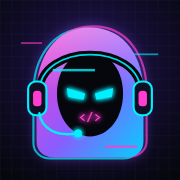
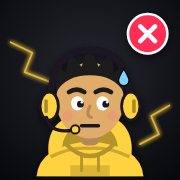
Add files via upload

diff --git a/style.css b/style.css
@@ -16,7 +16,9 @@
   --head: 'Chakra Petch', 'Rajdhani', system-ui, sans-serif;
   --body: 'Rajdhani', system-ui, -apple-system, sans-serif;
   --mono: 'JetBrains Mono', ui-monospace, Menlo, Consolas, monospace;
-  --hot: linear-gradient(135deg, #ff3dce 0%, #8a5cff 55%, #00d2ff 100%);
+  /* the gradient is only for the main buttons; everything else uses the solid colour */
+  --hot-grad: linear-gradient(135deg, #ff3dce 0%, #8a5cff 55%, #00d2ff 100%);
+  --hot: #8a5cff;
   --safe-b: env(safe-area-inset-bottom, 0px);
   --safe-t: env(safe-area-inset-top, 0px);
 }
@@ -516,11 +518,11 @@ body::before { content: ''; position: fixed; left: 0; right: 0; top: 0; height: 
 
 /* =================== v0.5 additions =================== */
 /* PLACE THEMES — the whole app changes mood with the place */
-body[data-place="dorm"] { --pink: #ff7ab6; --purple: #ff8a3d; --cyan: #ffd23f; --hot: linear-gradient(135deg, #ff5f6d 0%, #ff8a3d 55%, #ffd23f 100%);
+body[data-place="dorm"] { --pink: #ff7ab6; --purple: #ff8a3d; --cyan: #ffd23f; --hot: #ff8a3d; --hot-grad: linear-gradient(135deg, #ff5f6d 0%, #ff8a3d 55%, #ffd23f 100%);
   background: radial-gradient(1200px 600px at 10% -10%, rgba(255,138,61,.28), transparent 60%), radial-gradient(900px 500px at 110% 20%, rgba(255,210,63,.16), transparent 60%), radial-gradient(800px 600px at 50% 120%, rgba(255,95,109,.2), transparent 60%), #0d0806; }
-body[data-place="university"] { --pink: #5aa9ff; --purple: #3d5afe; --cyan: #7ee0ff; --hot: linear-gradient(135deg, #3d5afe 0%, #2f80ed 55%, #7ee0ff 100%);
+body[data-place="university"] { --pink: #5aa9ff; --purple: #3d5afe; --cyan: #7ee0ff; --hot: #3d5afe; --hot-grad: linear-gradient(135deg, #3d5afe 0%, #2f80ed 55%, #7ee0ff 100%);
   background: radial-gradient(1200px 600px at 10% -10%, rgba(61,90,254,.3), transparent 60%), radial-gradient(900px 500px at 110% 20%, rgba(126,224,255,.16), transparent 60%), radial-gradient(800px 600px at 50% 120%, rgba(47,128,237,.2), transparent 60%), #050814; }
-body[data-place="outside"] { --pink: #7dff4d; --purple: #1fb36b; --cyan: #b7ffde; --hot: linear-gradient(135deg, #11998e 0%, #38ef7d 100%);
+body[data-place="outside"] { --pink: #7dff4d; --purple: #1fb36b; --cyan: #b7ffde; --hot: #1fb36b; --hot-grad: linear-gradient(135deg, #11998e 0%, #38ef7d 100%);
   background: radial-gradient(1200px 600px at 10% -10%, rgba(17,153,142,.3), transparent 60%), radial-gradient(900px 500px at 110% 20%, rgba(56,239,125,.14), transparent 60%), radial-gradient(800px 600px at 50% 120%, rgba(10,60,40,.5), transparent 60%), #030a07; }
 body[data-place="outside"] .bg-grid { background-image: radial-gradient(rgba(255,255,255,.5) 1px, transparent 1.5px); background-size: 46px 46px; opacity: .25; }
 body[data-place="dorm"] .bg-grid { opacity: .15; }
@@ -1079,3 +1081,97 @@ body.quake #app { animation: quake .5s; }
 .judge { text-align: center; }
 .judge small { font: 700 12px var(--mono); letter-spacing: 2px; color: var(--dim); }
 .judge-ch { font: 800 22px var(--head); margin: 8px 0 12px; color: var(--yellow); line-height: 1.25; }
+/* ================= TrustIssues.exe logo ================= */
+.ti-logo { position: relative; display: inline-block; text-align: center; font-family: var(--head); font-weight: 700; font-size: clamp(30px, 10.5vw, 52px); line-height: 1.1; white-space: nowrap; padding-bottom: 14px; --imp: .62s; }
+.ti-name { display: inline-block; color: var(--text); text-shadow: 0 0 18px rgba(255,255,255,.15); animation: ti-in .45s ease-out .05s both; }
+.ti-exe { position: relative; display: inline-block; color: var(--yellow); text-shadow: 0 0 16px rgba(255,210,63,.6), 2px 2px 0 #ff2d55; animation: ti-slam .34s cubic-bezier(.7, 0, 1, .6) calc(var(--imp) - .14s) both; }
+/* the crack lines spread from where .exe lands */
+.ti-cracks { position: absolute; left: 50%; top: 92%; width: 190px; height: 76px; transform: translate(-50%, -50%); overflow: visible; pointer-events: none; }
+.ti-cracks path { fill: none; stroke: #ffe8a3; stroke-width: 2.2; stroke-linecap: round; stroke-linejoin: round; filter: drop-shadow(0 0 4px #ff9d00); stroke-dasharray: 220; stroke-dashoffset: 220; animation: ti-crack .4s ease-out calc(var(--imp) + .02s) forwards; }
+.ti-flash { position: absolute; left: 50%; top: 85%; width: 40px; height: 40px; margin: -20px 0 0 -20px; border-radius: 50%; background: radial-gradient(circle, #fff, rgba(255,210,63,.7) 40%, transparent 70%); opacity: 0; pointer-events: none; animation: ti-flash .5s ease-out var(--imp) both; }
+.ti-rock { position: absolute; left: 50%; top: 85%; width: 7px; height: 7px; background: #8a7a6a; border: 1px solid #3a2f25; opacity: 0; pointer-events: none; animation: ti-rock .75s cubic-bezier(.2, .8, .4, 1) var(--imp) both; }
+.ti-rock:nth-child(odd) { width: 5px; height: 9px; background: var(--yellow); border-color: #a8621f; }
+/* the "ground" the .exe hits */
+.ti-ground { position: absolute; left: -6%; right: -6%; bottom: 4px; height: 3px; border-radius: 2px; background: linear-gradient(90deg, transparent, rgba(255,255,255,.35) 20%, rgba(255,255,255,.35) 80%, transparent); animation: ti-ground .5s ease-out var(--imp) both; }
+.ti-tag { display: block; position: absolute; left: 0; right: 0; top: 100%; margin-top: 26px; font: 600 12px var(--mono); letter-spacing: 2px; color: var(--dim); white-space: nowrap; animation: ti-in .4s ease-out calc(var(--imp) + .45s) both; }
+@keyframes ti-in { from { opacity: 0; transform: translateY(8px); filter: blur(4px); } }
+@keyframes ti-slam {
+  0% { opacity: 0; transform: translateY(-240px) scale(3.2) rotate(-8deg); }
+  40% { opacity: 1; transform: translateY(0) scale(1.18, .78) rotate(0); }
+  65% { transform: translateY(-6px) scale(.95, 1.08); }
+  100% { opacity: 1; transform: none; }
+}
+@keyframes ti-crack { 70% { stroke-dashoffset: 0; opacity: 1; } 100% { stroke-dashoffset: 0; opacity: .6; } }
+@keyframes ti-flash { 0% { opacity: 0; transform: scale(.2); } 15% { opacity: 1; } 100% { opacity: 0; transform: scale(7); } }
+@keyframes ti-rock { 0% { opacity: 1; transform: translate(0, 0) rotate(0); } 100% { opacity: 0; transform: translate(var(--x), calc(var(--y) + 60px)) rotate(var(--r)); } }
+@keyframes ti-ground { 0% { transform: scaleY(1); } 20% { transform: scaleY(3); background: #ffe8a3; box-shadow: 0 0 14px #ff9d00; } 100% { transform: scaleY(1); } }
+/* the whole screen shakes on impact */
+#boot { animation: ti-quake .45s ease-out .62s; }
+@keyframes ti-quake { 0%, 100% { transform: none; } 15% { transform: translate(-7px, 5px); } 30% { transform: translate(6px, -6px); } 45% { transform: translate(-5px, 3px); } 60% { transform: translate(4px, -2px); } 80% { transform: translate(-2px, 1px); } }
+#boot .boot-logo { animation: none; margin-bottom: 38px; }
+/* still version (home screen): already cracked, no animation */
+.ti-logo.still *, .ti-logo.still { animation: none !important; }
+.ti-logo.still .ti-cracks path { stroke-dashoffset: 0; opacity: .45; filter: none; }
+.ti-logo.still .ti-rock, .ti-logo.still .ti-flash { display: none; }
+.home .ti-logo { margin: 22px 0 38px; }
+.sh-logo .ti-logo { --imp: 1.05s; }
+@media (prefers-reduced-motion: reduce) { .ti-logo * { animation-duration: .01s !important; } }
+/* ================= v1.0 "made by a human" pass =================
+   Same colours, less noise: one gradient (main buttons only), no glow on normal screens,
+   solid cards instead of frosted glass, chunky buttons with a hard shadow like real game buttons.
+   Glow is saved for the big moments (splash screens, hacks, victory). */
+:root { --glass: #121528; --glass2: #1a1e36; --line: #262b4a; --press: rgba(0, 0, 0, .5); }
+body[data-place="dorm"] { --glass: #1a120d; --glass2: #241811; --line: #3a2a1f; }
+body[data-place="university"] { --glass: #0e1426; --glass2: #151d36; --line: #22305a; }
+body[data-place="outside"] { --glass: #0b1712; --glass2: #10211a; --line: #1d3a2c; }
+/* calm background: one soft light at the top, no moving shine, no floating dots */
+body, body[data-place] { background: radial-gradient(700px 420px at 50% -8%, color-mix(in srgb, var(--purple) 20%, transparent), transparent 70%), var(--bg) !important; background-attachment: fixed !important; }
+body::after, .particle { display: none !important; }
+.bg-grid { opacity: .16 !important; }
+/* solid surfaces */
+.card, .roomcode, .av-editor, .settings, .member, .gcard, .pcard, .stage-card, .hero-net, .choice.join { backdrop-filter: none !important; background: var(--glass); border: 1.5px solid var(--line); }
+.hero-net { background: var(--glass) !important; }
+.gcard::after { display: none; }
+.gcard { box-shadow: 0 3px 0 var(--press); }
+.gcard:not(:disabled):active { transform: translateY(2px); box-shadow: 0 1px 0 var(--press); }
+.gcard:not(:disabled) .g-ic { animation: none; }
+.gcard.social .g-ic { box-shadow: none; }
+/* chunky pressable buttons: hard shadow instead of glow */
+.btn { box-shadow: 0 3px 0 var(--press); border-width: 1.5px; }
+.btn:active { transform: translateY(2px); box-shadow: 0 1px 0 var(--press); }
+.btn.ghost { box-shadow: none; }
+.btn.hot, .choice.host { background: var(--hot-grad); text-shadow: none; box-shadow: 0 4px 0 color-mix(in srgb, var(--purple) 45%, #000); }
+.btn.hot:active { box-shadow: 0 1px 0 color-mix(in srgb, var(--purple) 45%, #000); }
+.choice.host { box-shadow: 0 6px 0 color-mix(in srgb, var(--purple) 45%, #000); }
+.choice:active { transform: translateY(3px); }
+.choice.join { box-shadow: 0 6px 0 var(--press); border-color: color-mix(in srgb, var(--cyan) 45%, transparent); }
+.edit-av { box-shadow: 0 3px 0 var(--press); }
+/* numbers: crisp, no neon */
+.hn-pct, .stage-card b, .stage-card.vote b, .roomcode b span { text-shadow: none !important; }
+.hero-net .hn-pct { animation: none; }
+.roomcode b span { border-width: 1.5px; box-shadow: 0 3px 0 var(--press); }
+.tab .badge { box-shadow: none; }
+.member.in { box-shadow: none; border-color: var(--green); }
+.pcard.sel { box-shadow: none; }
+.pcard.has-voted { box-shadow: none !important; }
+.card.key { box-shadow: none; border-color: color-mix(in srgb, var(--yellow) 55%, transparent); }
+.toast { box-shadow: 0 4px 0 var(--press); border-width: 1.5px; }
+.feed li { background: var(--glass); }
+.feed-img { box-shadow: 0 3px 0 var(--press); }
+.inp { border-width: 1.5px; }
+.inp:focus { box-shadow: none; border-color: var(--cyan); }
+/* ================= easter eggs ================= */
+.crash { width: 100%; max-width: 340px; background: #f0f0f0; color: #111; border: 1px solid #888; font: 14px 'Segoe UI', system-ui, sans-serif; box-shadow: 0 6px 0 rgba(0,0,0,.5); animation: popin .2s; }
+.crash-bar { display: flex; justify-content: space-between; align-items: center; background: #fff; padding: 6px 10px; font-size: 12px; border-bottom: 1px solid #ccc; }
+.crash-bar b { color: #666; font-weight: 400; }
+.crash-body { display: flex; gap: 12px; padding: 16px 14px 8px; }
+.crash-body p { margin: 0 0 8px; } .crash-body .hint { color: #555; font-size: 13px; }
+.crash-x { flex-shrink: 0; width: 34px; height: 34px; border-radius: 50%; background: #e81123; color: #fff; display: grid; place-items: center; font-weight: 700; }
+.crash-btns { display: flex; justify-content: flex-end; gap: 8px; padding: 8px 14px 14px; }
+.crash-btns .btn { margin: 0; background: #e1e1e1; color: #111; border: 1px solid #adadad; border-radius: 2px; font: 13px 'Segoe UI', system-ui, sans-serif; box-shadow: none; }
+body.bsod #app { animation: bsod .9s steps(1); }
+@keyframes bsod { 0% { filter: none; } 10% { filter: invert(1) hue-rotate(180deg); } 30% { filter: brightness(0); } 60% { filter: none; } }
+.home-av.dizzy { animation: dizzy 1s ease-in-out; }
+@keyframes dizzy { 0% { transform: rotate(0); } 25% { transform: rotate(-25deg) translateX(-8px); } 50% { transform: rotate(20deg) translateX(8px); } 75% { transform: rotate(-12deg); } 100% { transform: rotate(0); } }
+.home-av.sixseven { animation: sixseven .9s ease-in-out; }
+@keyframes sixseven { 0%, 100% { transform: none; } 20% { transform: translateY(-10px) rotate(-6deg); } 40% { transform: translateY(6px) rotate(6deg); } 60% { transform: translateY(-10px) rotate(-6deg); } 80% { transform: translateY(6px) rotate(6deg); } }

diff --git a/main.js b/main.js
@@ -1,13 +1,13 @@
 // SCREENS — what each player sees. Every phone runs this file. The host's phone also runs the engine.
 
-import { connect, ONLINE } from './net.js?v=13';
-import { createEngine } from './engine.js?v=13';
-import { SOLO, DUEL, seeded, WIN_LINES, FAIL_LINES } from './games.js?v=13';
-import { ROLE_INFO, SETTINGS_UI, MODIFIERS, HOW, GAMER_ROLES, HACKER_ROLES, NPC_ROLES, PLACES } from './config.js?v=13';
-import { icon } from './icons.js?v=13';
-import { avatarSVG, randomAvatar, cleanAvatar, AV_PARTS, unlockLevel, lockedFix, randomUnlocked } from './avatar.js?v=13';
-import { loadProfile, createProfile, saveProfile, levelOf, levelProgress, recordGame, LEVELS } from './profile.js?v=13';
-import { unlockAudio, setTrack, sfx, prefs, savePrefs } from './music.js?v=13';
+import { connect, ONLINE } from './net.js?v=15';
+import { createEngine } from './engine.js?v=15';
+import { SOLO, DUEL, seeded, WIN_LINES, FAIL_LINES } from './games.js?v=15';
+import { ROLE_INFO, SETTINGS_UI, MODIFIERS, HOW, GAMER_ROLES, HACKER_ROLES, NPC_ROLES, PLACES } from './config.js?v=15';
+import { icon } from './icons.js?v=15';
+import { avatarSVG, randomAvatar, cleanAvatar, AV_PARTS, unlockLevel, lockedFix, randomUnlocked } from './avatar.js?v=15';
+import { loadProfile, createProfile, saveProfile, levelOf, levelProgress, recordGame, LEVELS } from './profile.js?v=15';
+import { unlockAudio, setTrack, sfx, prefs, savePrefs } from './music.js?v=15';
 
 const $ = (s, r = document) => r.querySelector(s);
 const $$ = (s, r = document) => [...r.querySelectorAll(s)];
@@ -115,6 +115,13 @@ function onPhaseChange(prev) {
   }
 }
 
+// the game logo: "TrustIssues" + ".exe" that slams down and cracks the ground (still = already cracked, no animation)
+function tiLogo(still = false, tag = 'has stopped working.') {
+  const rocks = [[-90, -70, 200], [85, -80, -160], [-130, -20, 90], [125, -30, -240], [-50, -110, 300], [40, -120, -120], [-160, 10, 60], [160, 5, -90]]
+    .map(([x, y, r]) => `<b class="ti-rock" style="--x:${x}px;--y:${y}px;--r:${r}deg"></b>`).join('');
+  return `<div class="ti-logo ${still ? 'still' : ''}"><span class="ti-name">TrustIssues</span><span class="ti-exe">.exe<svg class="ti-cracks" viewBox="-150 -60 300 120" aria-hidden="true"><path d="M0 0L-28 7L-52 3L-88 17L-145 12"/><path d="M0 0L24 9L58 5L96 21L148 16"/><path d="M0 0L-11 24L-29 39L-36 60"/><path d="M0 0L13 21L9 39L27 58"/><path d="M0 0L-44 -7L-82 -3"/><path d="M0 0L41 -9L72 -5"/><path d="M-52 3L-60 27"/><path d="M58 5L69 31"/></svg><i class="ti-flash"></i>${rocks}</span><div class="ti-ground"></div><small class="ti-tag">${esc(tag)}</small></div>`;
+}
+
 // voted out: the player gets up from their computer and walks away; the screen says DISCONNECTED
 function leaveScene(k) {
   return `<div class="leave-scene"><div class="ls-person">${av(k, 92)}</div><div class="ls-chair"></div><div class="ls-desk"></div><div class="ls-monitor"><div class="ls-screen"><span class="on">ONLINE</span><span class="off">DISCONNECTED</span></div><i></i></div><div class="ls-bye">👋</div></div>`;
@@ -173,7 +180,9 @@ async function joinRoom() {
   app.innerHTML = '<div class="screen center loading">Connecting…</div>';
   net = await connect(room, { isHost: false, onState: receive });
   if (!(await net.exists())) {
-    ui.error = `Room ${code} doesn't exist. Check the code!`;
+    // 🥚 a few joke codes
+    ui.error = { HACK: 'Nice try. You can\'t hack the join screen. 🤨', NOOB: 'Room NOOB is just you. Forever. 🫠', OHIO: 'Room OHIO exists… in another dimension. 🌽', SIGM: 'Sigmas don\'t join rooms. Rooms join them. 🗿' }[code]
+      || `Room ${code} doesn't exist. Check the code!`;
     net.close?.(); net = null; room = null;
     return render();
   }
@@ -402,7 +411,7 @@ function showRole() {
   // intro: shutters slam shut, the game name glitches in, then they open on your role
   const intro = document.createElement('div');
   intro.className = 'shutter';
-  intro.innerHTML = '<div class="sh-top"></div><div class="sh-bot"></div><div class="sh-logo"><span class="glitch" data-t="HACKER">HACKER</span><small>assigning your role…</small></div>';
+  intro.innerHTML = `<div class="sh-top"></div><div class="sh-bot"></div><div class="sh-logo">${tiLogo(false, 'assigning your role…')}</div>`;
   ov.appendChild(intro);
   sfx('whoosh'); setTimeout(() => sfx('reveal'), 900); setTimeout(() => sfx('whoosh'), 2100);
   setTimeout(() => intro.classList.add('open'), 2100);
@@ -747,6 +756,39 @@ function levelChip() {
   return `<button class="acct-chip" id="acctBtn"><span class="lv">Lv ${lp.level}</span><span class="mini-xp"><i style="width:${lp.pct}%"></i></span>${esc(profile.name)}</button>`;
 }
 
+// ---------- 🥚 easter eggs on the home screen ----------
+function homeEasterEggs() {
+  // 1) tap the logo 7 times: the program "crashes"
+  let taps = 0, tapT = 0;
+  $('.home .ti-logo')?.addEventListener('click', () => {
+    taps = Date.now() - tapT < 800 ? taps + 1 : 1; tapT = Date.now();
+    if (taps >= 7) { taps = 0; fakeCrash(); }
+  });
+  // 2) hold your character for 1.5 s: it gets dizzy
+  const avEl = $('#avTap'); let holdT = null;
+  avEl?.addEventListener('pointerdown', () => { holdT = setTimeout(() => { ui.heldAv = true; avEl.classList.remove('dizzy'); void avEl.offsetWidth; avEl.classList.add('dizzy'); sfx('whoosh'); toast(pickOne(['😵 Stop touching me. I have trust issues.', '😵💫 Personal space, please. I don\'t know you.', '🫨 Bro is NOT a fidget toy.'])); }, 1500); });
+  ['pointerup', 'pointerleave', 'pointercancel'].forEach((ev) => avEl?.addEventListener(ev, () => clearTimeout(holdT)));
+  // 3) secret nicknames
+  const NAMES = [[/^(67|6\s?7|six\s?seven)$/i, '6⃣7⃣ SIX SEVEN 🤷'], [/tung\s?tung/i, '🪵 TUNG TUNG TUNG SAHUR. He knows where you live.'],
+    [/skibidi/i, '🚽 Skibidi detected. Aura −1000.'], [/^(admin|hacker|root)$/i, '🤨 Bold name for someone with trust issues.'], [/^(mom|mum|mama)$/i, '👩 "Did you eat?" — Mom, probably']];
+  let lastEgg = '';
+  $('#name')?.addEventListener('input', (e) => {
+    const v = e.target.value.trim(), hit = NAMES.find(([re]) => re.test(v));
+    if (hit && lastEgg !== hit[1]) { lastEgg = hit[1]; toast(hit[1]); if (hit[1].startsWith('6⃣')) { const a = $('#avTap'); a.classList.remove('sixseven'); void a.offsetWidth; a.classList.add('sixseven'); } }
+    if (!hit) lastEgg = '';
+  });
+}
+
+// fake "has stopped working" window
+function fakeCrash() {
+  sfx('lose');
+  modal.className = 'show';
+  modal.innerHTML = `<div class="crash"><div class="crash-bar"><span>TrustIssues.exe</span><b>✕</b></div><div class="crash-body"><div class="crash-x">✕</div><div><p><b>TrustIssues.exe has stopped working</b></p><p>Windows is looking for a solution to the problem…</p><p class="hint">Just kidding. There is no solution. Your friends are still lying.</p></div></div><div class="crash-btns"><button class="btn small" id="crWait">Wait for it to respond</button><button class="btn small" id="crClose">Close program</button></div></div>`;
+  const close = () => { modal.className = ''; modal.innerHTML = ''; };
+  $('#crWait').onclick = () => { $('.crash-body p.hint').textContent = '⏳ Still waiting… still not trusting anyone.'; setTimeout(close, 1600); };
+  $('#crClose').onclick = () => { close(); document.body.classList.add('bsod'); setTimeout(() => document.body.classList.remove('bsod'), 900); };
+}
+
 // character customisation: its own screen; changes only stick when you press SAVE
 function renderAvatarScreen() {
   const d = ui.avDraft;
@@ -798,7 +840,7 @@ function renderHome() {
   }
   app.innerHTML = `<div class="screen home ${enterCls('home')}">
     <div class="home-top">${levelChip()}<button class="gear" id="prefsBtn">${icon('tool')}</button></div>
-    <div class="logo"><span class="glitch" data-t="HACKER">HACKER</span><small>THE PARTY GAME</small></div>
+    ${tiLogo(true)}
     <div class="home-av" id="avTap">${avatarSVG(me.av, 150, 'float')}<button class="edit-av">${icon('edit')}</button></div>
     <p class="hint center tap-hint">Tap your character to customise it</p>
     <input id="name" class="inp name" maxlength="16" placeholder="Your gamer tag" value="${esc(me.name)}" autocomplete="off">
@@ -812,7 +854,8 @@ function renderHome() {
   </div>`;
   ui.error = '';
   const keepName = () => { me.name = $('#name').value; };
-  $('#avTap').onclick = () => { keepName(); ui.avDraft = { ...me.av }; ui.home = 'avatar'; renderHome(); };
+  $('#avTap').onclick = () => { if (ui.heldAv) { ui.heldAv = false; return; } keepName(); ui.avDraft = { ...me.av }; ui.home = 'avatar'; renderHome(); };
+  homeEasterEggs();
   $('#acctBtn').onclick = () => { keepName(); openProfile(); };
   $('#prefsBtn').onclick = openPrefs;
   $('#host').onclick = createRoom;
@@ -1300,8 +1343,11 @@ for (let i = 0; i < 18; i++) {
 function hideBoot() {
   const b = $('#boot');
   if (!b) return;
+  // 🥚 playing between 2 and 5 at night? the loading screen notices
+  const hr = new Date().getHours();
+  if (hr >= 2 && hr < 5) $('.boot-term', b)?.insertAdjacentHTML('beforeend', '<p style="--d:2.1s">&gt; why are you awake at 3 AM?… <b>SUS</b></p>');
   // counted from when the page started opening, so a slow download doesn't add extra waiting
-  const wait = Math.max(0, 1400 - performance.now());
+  const wait = Math.max(0, 2500 - performance.now()); // long enough to see the .exe slam
   setTimeout(() => { b.classList.add('gone'); setTimeout(() => b.remove(), 700); }, wait);
 }
 

diff --git a/index.html b/index.html
@@ -7,27 +7,27 @@
   <meta name="apple-mobile-web-app-capable" content="yes">
   <meta name="mobile-web-app-capable" content="yes">
   <meta name="apple-mobile-web-app-status-bar-style" content="black-translucent">
-  <meta name="apple-mobile-web-app-title" content="Hacker">
+  <meta name="apple-mobile-web-app-title" content="TrustIssues">
   <link rel="manifest" href="manifest.json">
   <link rel="apple-touch-icon" href="icon-180.png">
   <link rel="icon" type="image/svg+xml" href="icon.svg">
   <link rel="icon" type="image/png" sizes="192x192" href="icon-192.png">
-  <title>HACKER — the party game</title>
+  <title>TrustIssues.exe — the party game</title>
   <link rel="preconnect" href="https://fonts.googleapis.com">
   <link rel="preconnect" href="https://fonts.gstatic.com" crossorigin>
   <link href="https://fonts.googleapis.com/css2?family=Chakra+Petch:wght@500;600;700&family=Rajdhani:wght@500;600;700&family=JetBrains+Mono:wght@500;700;800&display=swap" rel="stylesheet">
-  <link rel="stylesheet" href="style.css?v=13">
+  <link rel="stylesheet" href="style.css?v=15">
 </head>
 <body>
   <!-- Loading screen: shows instantly while fonts, code and the network load -->
   <div id="boot">
-    <div class="boot-logo"><span class="glitch" data-t="HACKER">HACKER</span><small>THE PARTY GAME</small></div>
+    <!-- "TrustIssues" appears, then ".exe" slams down and cracks the ground -->
+    <div class="ti-logo boot-logo"><span class="ti-name">TrustIssues</span><span class="ti-exe">.exe<svg class="ti-cracks" viewBox="-150 -60 300 120" aria-hidden="true"><path d="M0 0L-28 7L-52 3L-88 17L-145 12"/><path d="M0 0L24 9L58 5L96 21L148 16"/><path d="M0 0L-11 24L-29 39L-36 60"/><path d="M0 0L13 21L9 39L27 58"/><path d="M0 0L-44 -7L-82 -3"/><path d="M0 0L41 -9L72 -5"/><path d="M-52 3L-60 27"/><path d="M58 5L69 31"/></svg><i class="ti-flash"></i><b class="ti-rock" style="--x:-90px;--y:-70px;--r:200deg"></b><b class="ti-rock" style="--x:85px;--y:-80px;--r:-160deg"></b><b class="ti-rock" style="--x:-130px;--y:-20px;--r:90deg"></b><b class="ti-rock" style="--x:125px;--y:-30px;--r:-240deg"></b><b class="ti-rock" style="--x:-50px;--y:-110px;--r:300deg"></b><b class="ti-rock" style="--x:40px;--y:-120px;--r:-120deg"></b><b class="ti-rock" style="--x:-160px;--y:10px;--r:60deg"></b><b class="ti-rock" style="--x:160px;--y:5px;--r:-90deg"></b></span><div class="ti-ground"></div><small class="ti-tag">has stopped working.</small></div>
     <div class="boot-term">
-      <p style="--d:.1s">&gt; booting hacker_os v0.9…</p>
-      <p style="--d:.5s">&gt; loading firewalls…… <b>OK</b></p>
-      <p style="--d:.9s">&gt; injecting chaos into network… <b>OK</b></p>
-      <p style="--d:1.3s">&gt; hiding the hackers among you… <b>OK</b></p>
-      <p style="--d:1.7s">&gt; trust nobody. <span class="caret">█</span></p>
+      <p style="--d:1.15s">&gt; launching TrustIssues.exe…</p>
+      <p style="--d:1.4s">&gt; scanning friends for lies… <b>FOUND 3</b></p>
+      <p style="--d:1.65s">&gt; hiding the hackers among you… <b>OK</b></p>
+      <p style="--d:1.9s">&gt; trust nobody. <span class="caret">█</span></p>
     </div>
     <div class="boot-bar"><div></div></div>
   </div>
@@ -40,9 +40,9 @@
   <!-- QR code maker (the QR reader loads only when someone first scans) -->
   <script defer src="https://cdn.jsdelivr.net/npm/qrcode-generator@1.4.4/qrcode.js"></script>
   <!-- download every code file at the same time instead of one after another -->
-  <link rel="modulepreload" href="net.js?v=13"><link rel="modulepreload" href="engine.js?v=13"><link rel="modulepreload" href="games.js?v=13">
-  <link rel="modulepreload" href="config.js?v=13"><link rel="modulepreload" href="icons.js?v=13"><link rel="modulepreload" href="avatar.js?v=13">
-  <link rel="modulepreload" href="profile.js?v=13"><link rel="modulepreload" href="music.js?v=13"><link rel="modulepreload" href="firebase-config.js?v=13">
-  <script type="module" src="main.js?v=13"></script>
+  <link rel="modulepreload" href="net.js?v=15"><link rel="modulepreload" href="engine.js?v=15"><link rel="modulepreload" href="games.js?v=15">
+  <link rel="modulepreload" href="config.js?v=15"><link rel="modulepreload" href="icons.js?v=15"><link rel="modulepreload" href="avatar.js?v=15">
+  <link rel="modulepreload" href="profile.js?v=15"><link rel="modulepreload" href="music.js?v=15"><link rel="modulepreload" href="firebase-config.js?v=15">
+  <script type="module" src="main.js?v=15"></script>
 </body>
 </html>

diff --git a/engine.js b/engine.js
@@ -7,8 +7,8 @@
 // shields and Healer revives all work by scanning badges.
 
 import { SOLO_IDS, SENSOR_IDS, SOCIAL_IDS, EMERGENCY_IDS, DUEL_IDS, DUEL_BETTER, DEFAULT_SETTINGS, ZONES, SPOT_TWISTS, DARES,
-  GAMER_ROLES, HACKER_ROLES, NPC_ROLES, MODIFIERS, ROLE_INFO } from './config.js?v=13';
-import { cleanAvatar, COLOR_NAMES, HAIR_COLOR_NAMES, partName } from './avatar.js?v=13';
+  GAMER_ROLES, HACKER_ROLES, NPC_ROLES, MODIFIERS, ROLE_INFO } from './config.js?v=15';
+import { cleanAvatar, COLOR_NAMES, HAIR_COLOR_NAMES, partName } from './avatar.js?v=15';
 
 const pick = (a) => a[Math.floor(Math.random() * a.length)];
 const shuffle = (a) => { a = [...a]; for (let i = a.length - 1; i > 0; i--) { const j = Math.floor(Math.random() * (i + 1)); [a[i], a[j]] = [a[j], a[i]]; } return a; };
@@ -613,7 +613,9 @@ export function createEngine(code, hostId, publish, saved) {
       const r = set().reveal;
       const teamTxt = k.team === 'hacker' ? 'a HACKER 💀' : k.team === 'npc' ? 'an NPC 🤖' : 'a Gamer 🎮';
       const what = r === 'role' ? ` They were: ${ROLE_NAME(k)}.` : r === 'team' ? (k.team === 'hacker' ? ' They were a HACKER 💀' : ` They were ${teamTxt}… not a Hacker.`) : '';
-      L.outcome = { kicked: k.id, text: `${broke ? 'It was a TIE… but someone\'s vote weighs more. 👀 ' : ''}${k.name} got Vote Kicked!${what}`, team: r === 'none' ? null : k.team, ...board };
+      // 🥚 everybody voted for the same person
+      const unanimous = !broke && !skip && ranked.length === 1 && top[1] >= 3 ? ' UNANIMOUS. Not even their mom would vote for them. 💀' : '';
+      L.outcome = { kicked: k.id, text: `${broke ? 'It was a TIE… but someone\'s vote weighs more. 👀 ' : ''}${k.name} got Vote Kicked!${unanimous}${what}`, team: r === 'none' ? null : k.team, ...board };
       log(`🥾 ${k.name} (${ROLE_INFO[k.role]?.name || k.role}) was Vote Kicked with ${top[1]} votes`);
       if (k.role === 'troll') npcWin(k, 'They actually kicked you. Masterful trolling.');
       else note(k.id, 'The group voted you out. Follow the rest from the sidelines — and no talking!', 'lose', 'KICKED', { scene: k.id, delay: Math.round((3 + (Object.keys(counts).length + 1) * 0.9) * 1000 + 400) }); // shown after the vote reveal

diff --git a/net.js b/net.js
@@ -3,7 +3,7 @@
 //  - Local test mode: browser tabs on one device talk through a BroadcastChannel.
 //  - Online mode (when firebase-config.js is filled in): phones talk through Firebase Realtime Database.
 
-import { firebaseConfig } from './firebase-config.js?v=13';
+import { firebaseConfig } from './firebase-config.js?v=15';
 
 export const ONLINE = !!(firebaseConfig && firebaseConfig.apiKey && firebaseConfig.databaseURL);
 

diff --git a/games.js b/games.js
@@ -4,7 +4,7 @@
 // Duel game: run(root, rand, done) -> cleanup. rand() is shared so both players get the SAME challenge.
 //            Call done(score).
 
-import { avatarSVG, randomAvatar } from './avatar.js?v=13';
+import { avatarSVG, randomAvatar } from './avatar.js?v=15';
 
 export function seeded(seed) {
   let a = seed >>> 0;

diff --git a/README.md b/README.md
@@ -1,5 +1,10 @@
 # HACKER — the party game · prototype v0.6 (18 Nov 2026)
 
+**New in v1.0 — TrustIssues.exe**
+- **New name:** TrustIssues.exe. The loading screen shows "TrustIssues", then ".exe" slams down and cracks the ground. New app icon: a suspicious gamer face with a headset and an error badge.
+- **Look:** same colours, but cleaner — one gradient only on the main buttons, solid cards instead of frosted glass, chunky buttons with a hard shadow, no glow or floating dots on normal screens.
+- **Easter eggs** (secret, not shown in How to play): tap the logo 7 times; hold your character; nicknames "67", "tung tung", "skibidi", "admin", "mom"; join codes HACK, NOOB, OHIO, SIGM; open the game between 2 and 5 AM; a unanimous Vote Kick.
+
 **New in v0.9**
 - **Removed:** Bug Squash, Terminal, File Sort, Captcha, Spam Filter, Password Picker, Hack the Mainframe, Firewall Defender.
 - **Odd One Out** is now emoji-based and funnier (near-twin emojis, then flipped/turned ones, with a silly hint each round).
